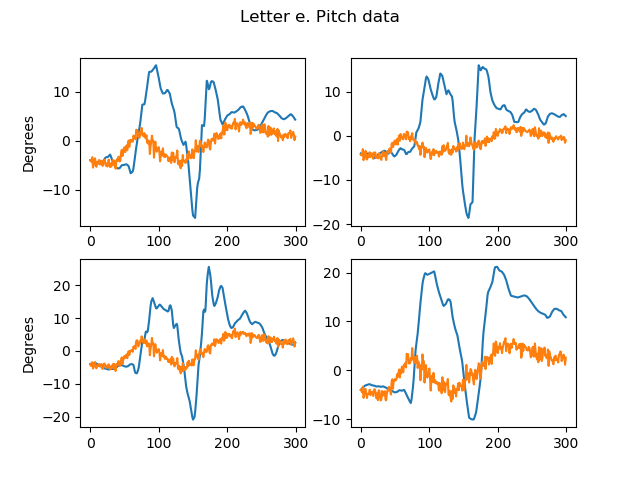
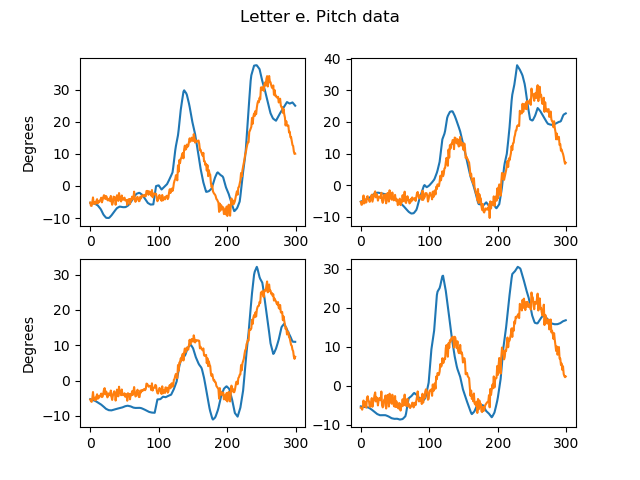
generated visualization for data_flatten.py

diff --git a/src/data_flatten.py b/src/data_flatten.py
@@ -4,6 +4,7 @@ import sys
 # from data import data_utils
 import data_utils
 from scipy import interpolate
+import matplotlib.pyplot as plt
 
 
 INDEX_TIME_COLUMNS = [
@@ -244,5 +245,35 @@ def example():
 
     print("\ndone.")
 
+# Example 3 generate comparison graph
+    for key in loaded_dataset:
+        plt.subplot(2,2,1)
+        plt.plot(loaded_dataset[key][2].T[3])
+        plt.ylabel('Degrees')
+        plt.subplot(2,2,2)
+        plt.plot(loaded_dataset[key][7].T[3])
+        plt.subplot(2,2,3)
+        plt.plot(loaded_dataset[key][12].T[3])
+        plt.ylabel('Degrees')
+        plt.subplot(2,2,4)
+        plt.plot(loaded_dataset[key][18].T[3])
+
+        plt.subplot(2,2,1)
+        plt.plot(resampled_dataset[key][2].T[1])
+        plt.subplot(2,2,2)
+        plt.plot(resampled_dataset[key][7].T[1])
+        plt.subplot(2,2,3)
+        plt.plot(resampled_dataset[key][12].T[1])
+        plt.subplot(2,2,4)
+        plt.plot(resampled_dataset[key][18].T[1])
+        sub_title = 'Letter ' + key + '. Pitch data'
+        plt.suptitle(sub_title)
+
+        file_name = 'flatten_output/letter_' + key + ".png"
+        plt.savefig(file_name)
+        plt.clf()
+
 if __name__ == "__main__":
     example()
+
+

diff --git a/src/autoencoder.py b/src/autoencoder.py
@@ -209,9 +209,9 @@ def autoencode_as_whole(dataset):
 
     print(yaws.shape, pitchs.shape, rolls.shape, labels.shape)
 
-    new_yaws = Denoising_Autoencoder(yaws, input_size=FEATURE_NUM, hidden_size = 128, code_size = 64, verbose=False)
-    new_pitchs = Denoising_Autoencoder(pitchs, input_size=FEATURE_NUM, hidden_size = 128, code_size = 64, verbose=False)
-    new_rolls = Denoising_Autoencoder(rolls, input_size=FEATURE_NUM, hidden_size = 128, code_size = 64, verbose=False)
+    new_yaws = Denoising_Autoencoder(yaws, input_size=FEATURE_NUM, hidden_size = 256, code_size = 128, verbose=False)
+    new_pitchs = Denoising_Autoencoder(pitchs, input_size=FEATURE_NUM, hidden_size = 256, code_size = 128, verbose=False)
+    new_rolls = Denoising_Autoencoder(rolls, input_size=FEATURE_NUM, hidden_size = 256, code_size = 128, verbose=False)
 
     reconstructed_dataset = restore_ypr_data(new_yaws, new_pitchs, new_rolls, labels)
 
@@ -262,8 +262,6 @@ def main():
         file_name = 'DAE_output/letter_' + key + ".png"
         plt.savefig(file_name)
         plt.clf()
-
-
 
 if __name__ == "__main__":
     main()
